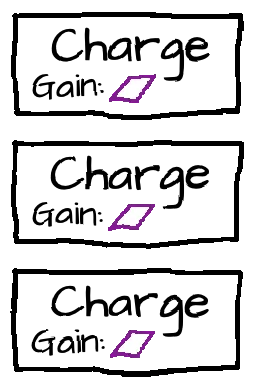
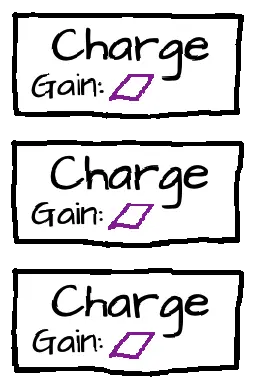
variant update (half working)

diff --git a/src/main.js b/src/main.js
@@ -54,6 +54,7 @@ import {
   preloadDoodleSheets,
   READY_WAITING_SAFE_PHASE_MS,
   resumeRendererClock,
+  setBoilEnabled,
 } from './renderer.js';
 
 const BEAT_MS = 750;
@@ -130,6 +131,7 @@ const LOADING_CLICK_MESSAGE_URL = './assets/click_msg_sheet.webp';
 const PAPER_BACKGROUND_URL = './assets/crumpled_paper_background.webp';
 const ONLINE_STATUS_POLL_MS = 5000;
 const RANKED_DISPLAY_NAME_KEY = 'tapTapShoot.rankedDisplayName';
+const BOIL_ENABLED_KEY = 'tapTapShoot.boilEnabled';
 const DEFAULT_RANKED_DISPLAY_NAME = 'Guest';
 const MAX_RANKED_DISPLAY_NAME_LENGTH = 50;
 const NAME_PREFIXES = Object.freeze([
@@ -414,6 +416,7 @@ let isTransitioning = false;
 let variantDetailMenu = null;
 let isMusicEnabled = false;
 let isSoundEnabled = false;
+let isBoilEnabled = readStoredBoilEnabled();
 let pauseMenu = null;
 let pauseStartedAt = null;
 const pausableTimers = new Set();
@@ -457,6 +460,7 @@ const rankedClient = new RankedClient({
 });
 
 configureAudio({ getMusicTopperFile });
+setBoilEnabled(isBoilEnabled);
 
 updateFrameScale();
 window.addEventListener('resize', updateFrameScale);
@@ -585,7 +589,7 @@ function drawLoadingScreen(loadingScreen, images, now) {
   const clickMessageContext = loadingScreen.clickMessageCanvas?.getContext('2d');
   const currentBoilFrame = loadingScreen.isDone
     ? LOADING_FRAME_COUNT - 1
-    : Math.min(LOADING_FRAME_COUNT - 1, Math.floor((elapsed / 1000) * LOADING_FRAME_RATE));
+    : getLoadingBoilFrame(elapsed);
 
   if (!loadingScreen.isDone && elapsed >= LOADING_DURATION_MS) {
     removeLoadingBoil(loadingScreen);
@@ -599,7 +603,7 @@ function drawLoadingScreen(loadingScreen, images, now) {
     return;
   }
 
-  const barFrame = Math.floor((now / 1000) * LOADING_BAR_FRAME_RATE) % LOADING_BAR_FRAME_COUNT;
+  const barFrame = getLoadingBarFrame(now);
   const barWidth = Math.round(LOADING_FRAME_WIDTH * progress);
 
   progressContext.clearRect(0, 0, LOADING_FRAME_WIDTH, LOADING_FRAME_HEIGHT);
@@ -653,6 +657,22 @@ function drawLoadingScreen(loadingScreen, images, now) {
     LOADING_FRAME_HEIGHT,
   );
   clickMessageContext.restore();
+}
+
+function getLoadingBoilFrame(elapsed) {
+  if (!isBoilEnabled) {
+    return 0;
+  }
+
+  return Math.min(LOADING_FRAME_COUNT - 1, Math.floor((elapsed / 1000) * LOADING_FRAME_RATE));
+}
+
+function getLoadingBarFrame(now) {
+  if (!isBoilEnabled) {
+    return 0;
+  }
+
+  return Math.floor((now / 1000) * LOADING_BAR_FRAME_RATE) % LOADING_BAR_FRAME_COUNT;
 }
 
 function getLoadingProgress(elapsed) {
@@ -1093,6 +1113,22 @@ function writeStoredDisplayName(value) {
     window.localStorage.setItem(RANKED_DISPLAY_NAME_KEY, value);
   } catch {
     // Online play still works for this tab; it just cannot remember the name.
+  }
+}
+
+function readStoredBoilEnabled() {
+  try {
+    return window.localStorage.getItem(BOIL_ENABLED_KEY) !== 'false';
+  } catch {
+    return true;
+  }
+}
+
+function writeStoredBoilEnabled(value) {
+  try {
+    window.localStorage.setItem(BOIL_ENABLED_KEY, value ? 'true' : 'false');
+  } catch {
+    // Game still works for this tab; it just cannot remember the setting.
   }
 }
 
@@ -1977,9 +2013,10 @@ function renderTitleScreen() {
         </button>
       </div>
 
-      <div class="title-audio-actions" aria-label="Audio">
+      <div class="title-audio-actions" aria-label="Settings">
         ${renderTitleAudioButton('music', isMusicEnabled)}
         ${renderTitleAudioButton('sound', isSoundEnabled)}
+        ${renderTitleBoilButton()}
       </div>
     </section>
   `;
@@ -1988,6 +2025,7 @@ function renderTitleScreen() {
   app.querySelector('[data-action="ranked"]').addEventListener('click', startRankedFromTitle);
   app.querySelector('[data-action="toggle-music"]').addEventListener('click', toggleMusic);
   app.querySelector('[data-action="toggle-sound"]').addEventListener('click', toggleSound);
+  app.querySelector('[data-action="toggle-boil"]').addEventListener('click', toggleBoil);
   mountSpriteRenderers(app.querySelectorAll('.sprite-canvas'));
 }
 
@@ -2016,6 +2054,21 @@ function renderTitleAudioButton(kind, isChecked) {
   `;
 }
 
+function renderTitleBoilButton() {
+  return `
+    <button
+      class="title-audio-button title-boil-button ${isBoilEnabled ? 'is-checked' : ''}"
+      data-action="toggle-boil"
+      type="button"
+      aria-label="boil ${isBoilEnabled ? 'on' : 'off'}"
+      aria-pressed="${isBoilEnabled ? 'true' : 'false'}"
+    >
+      <span class="title-boil-button-main">BOIL</span>
+      <span class="title-boil-button-state">${isBoilEnabled ? 'ON' : 'OFF'}</span>
+    </button>
+  `;
+}
+
 function toggleMusic() {
   const trackId = screen === 'title' ? 'title' : 'game';
 
@@ -2028,6 +2081,14 @@ function toggleMusic() {
 function toggleSound() {
   isSoundEnabled = !isSoundEnabled;
   setSoundEnabled(isSoundEnabled);
+  playAudioToggleSound();
+  render();
+}
+
+function toggleBoil() {
+  isBoilEnabled = !isBoilEnabled;
+  writeStoredBoilEnabled(isBoilEnabled);
+  setBoilEnabled(isBoilEnabled);
   playAudioToggleSound();
   render();
 }

diff --git a/src/renderer.js b/src/renderer.js
@@ -23,6 +23,7 @@ const WAITING_DOTS_STEP_MS = (WAITING_DOTS_STEP_FRAMES / DOODLE_FRAME_RATE) * 10
 export const READY_WAITING_SAFE_PHASE_MS = WAITING_DOTS_START_DELAY + (3 * WAITING_DOTS_STEP_MS);
 const COUNTDOWN_NUMBERS = Object.freeze([5, 4, 3, 2, 1]);
 const COUNTDOWN_STEP_MS = 1000;
+let isBoilEnabled = true;
 
 const READY_WAITING_READY_STEPS = Object.freeze([
   '1',
@@ -400,6 +401,11 @@ export function mountSpriteRenderers(canvases) {
   ensureDoodleLoop();
 }
 
+export function setBoilEnabled(isEnabled) {
+  isBoilEnabled = Boolean(isEnabled);
+  drawDoodleFrame(getRendererNow(performance.now()));
+}
+
 export function mountReadyWaitingOverlays(canvases) {
   [...canvases].forEach((canvas) => {
     startReadyWaitingLoop(canvas);
@@ -528,7 +534,7 @@ function getReadyWaitingLayersForStep(stepIndex) {
 }
 
 function drawReadyWaitingStep(canvas, context, layers, now) {
-  const frame = Math.floor((now / 1000) * DOODLE_FRAME_RATE) % DOODLE_FRAME_COUNT;
+  const frame = getBoilFrame(now);
 
   context.clearRect(0, 0, canvas.width, canvas.height);
 
@@ -587,7 +593,7 @@ function drawWaitingDotsStep(canvas, context, elapsed, now) {
     return;
   }
 
-  const frame = Math.floor((now / 1000) * DOODLE_FRAME_RATE) % DOODLE_FRAME_COUNT;
+  const frame = getBoilFrame(now);
 
   context.drawImage(
     image,
@@ -634,7 +640,7 @@ function drawCountdownStep(canvas, context, elapsed, now) {
     return;
   }
 
-  const frame = Math.floor((now / 1000) * DOODLE_FRAME_RATE) % DOODLE_FRAME_COUNT;
+  const frame = getBoilFrame(now);
 
   context.drawImage(
     image,
@@ -769,7 +775,7 @@ function drawWipeStep(canvas, layers, now) {
   }
 
   const context = canvas.getContext('2d');
-  const frame = Math.floor((now / 1000) * DOODLE_FRAME_RATE) % DOODLE_FRAME_COUNT;
+  const frame = getBoilFrame(now);
 
   context.clearRect(0, 0, canvas.width, canvas.height);
 
@@ -797,7 +803,7 @@ function drawWipeStep(canvas, layers, now) {
 function drawCurtainStep(canvas, step, now) {
   const context = canvas.getContext('2d');
   const image = loadDoodleSheet(`curtains/${step}`);
-  const frame = Math.floor((now / 1000) * DOODLE_FRAME_RATE) % DOODLE_FRAME_COUNT;
+  const frame = getBoilFrame(now);
 
   context.clearRect(0, 0, canvas.width, canvas.height);
 
@@ -1055,7 +1061,7 @@ function drawDoodleFrame(now) {
     return;
   }
 
-  const frame = Math.floor((now / 1000) * DOODLE_FRAME_RATE) % DOODLE_FRAME_COUNT;
+  const frame = getBoilFrame(now);
 
   doodleRenderers.forEach(({ canvas, context, image, frameWidth, frameHeight, flip }) => {
     if (!canvas.isConnected || !image.complete || !image.naturalWidth) {
@@ -1085,4 +1091,12 @@ function drawDoodleFrame(now) {
 
     canvas.style.backgroundImage = 'none';
   });
+}
+
+function getBoilFrame(now) {
+  if (!isBoilEnabled) {
+    return 0;
+  }
+
+  return Math.floor((now / 1000) * DOODLE_FRAME_RATE) % DOODLE_FRAME_COUNT;
 }

diff --git a/src/styles.css b/src/styles.css
@@ -400,6 +400,39 @@ button {
   transform: rotate(0.45deg) translateY(-2px);
 }
 
+.title-boil-button {
+  display: grid;
+  place-items: center;
+  align-content: center;
+  gap: 2px;
+  border: 4px solid var(--ink);
+  border-radius: 6px;
+  background: rgba(247, 239, 217, 0.86);
+  box-shadow: 3px 5px 0 rgba(29, 27, 24, 0.14);
+  color: var(--ink);
+  font: inherit;
+  font-weight: 950;
+  line-height: 0.9;
+  transform: rotate(-0.2deg);
+}
+
+.title-boil-button.is-checked {
+  background: rgba(255, 221, 93, 0.9);
+}
+
+.title-boil-button:hover,
+.title-boil-button:focus-visible {
+  transform: rotate(-0.2deg) translateY(-2px);
+}
+
+.title-boil-button-main {
+  font-size: 34px;
+}
+
+.title-boil-button-state {
+  font-size: 22px;
+}
+
 .online-name-form {
   display: grid;
   justify-items: center;
